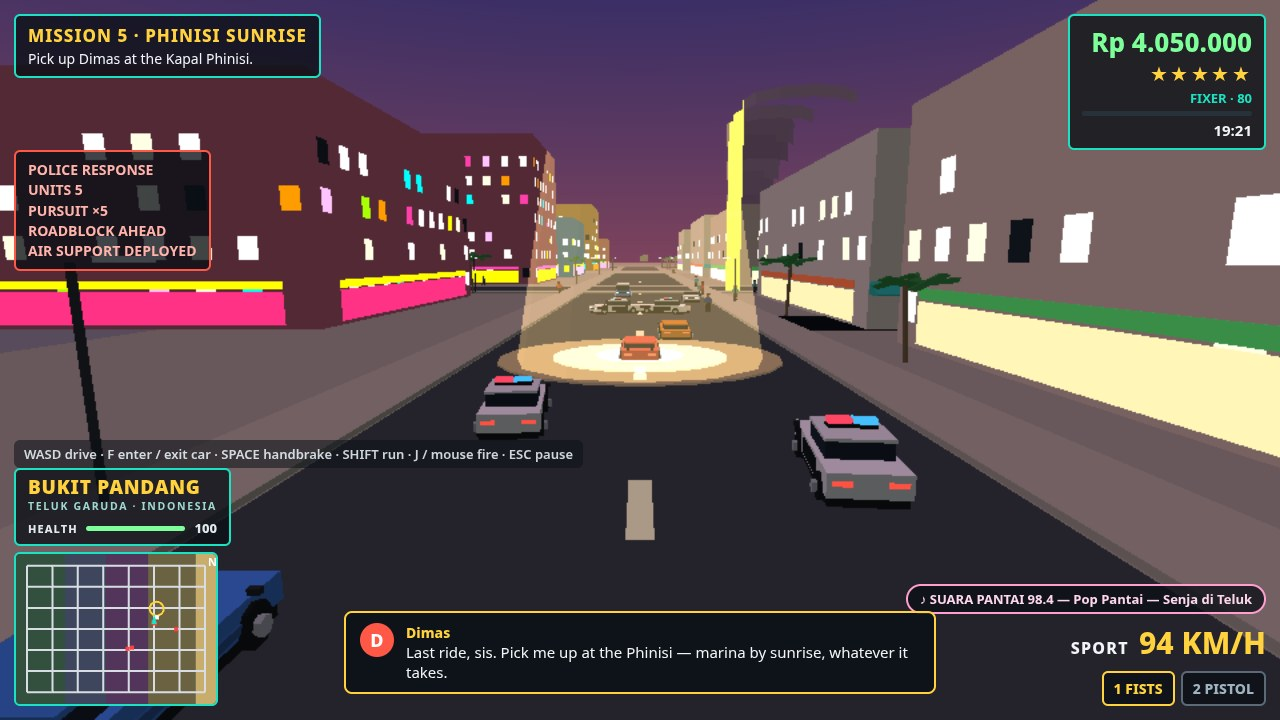
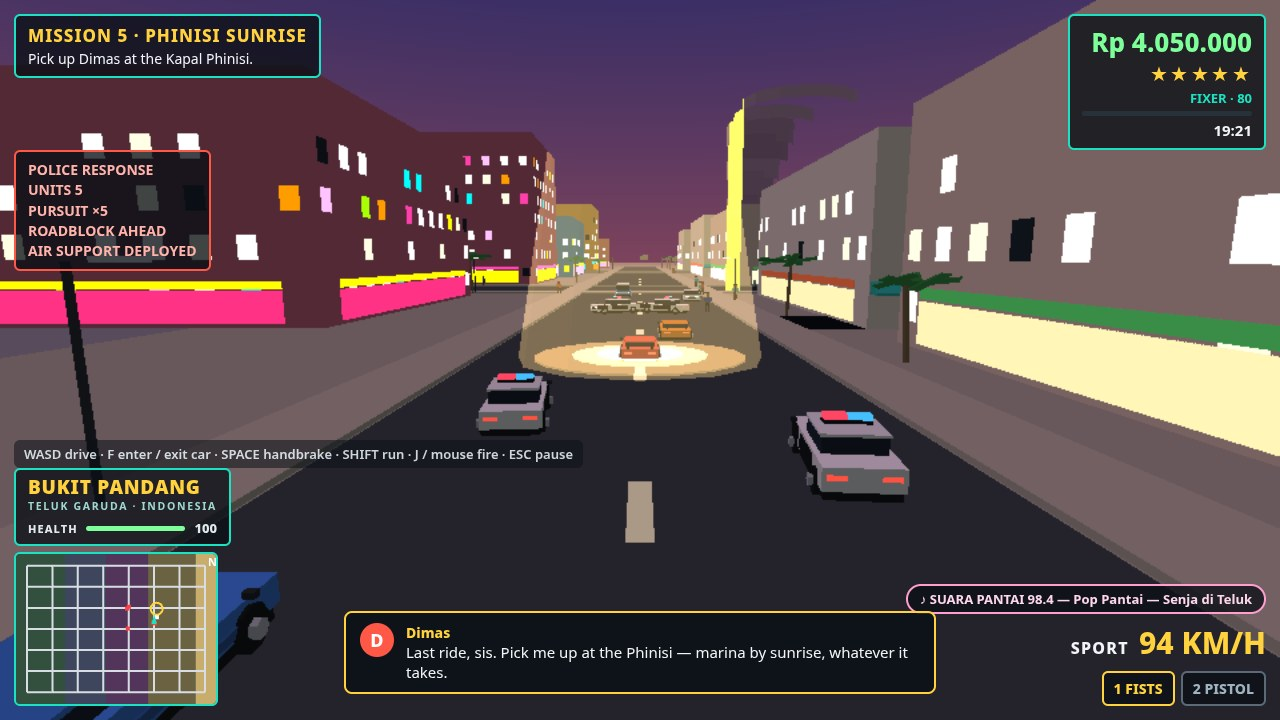
F4B iter2: on-foot market staging, menu vista backdrop, softer searchlight

diff --git a/game/src/shots3d.js b/game/src/shots3d.js
@@ -147,25 +147,30 @@
   }
 
   function stageOnfoot() {
-    Coral3D.teleport(75, -30); // Neon district, avenue x=75
+    // Park the car at the south end of the market avenue, then put Mara
+    // ON FOOT among the Pasar Malam stall rows (stalls line x=63.8/86.2,
+    // z=-64..+26) so the frame reads as a populated night market:
+    // stalls both sides, crowd clustered ahead, cars stopped in-frame.
+    Coral3D.teleport(75, 20); // car stays here, behind the camera
     return delay(400).then(function () {
       key('KeyF'); // step out of the car
       return waitFor(function () { return Coral3D.stats().mode === 'foot'; }, 6000, 'on foot');
     }).then(function () {
-      Coral3D.teleport(75, 2);
-      Coral3D.mara.heading = 0.3;
+      Coral3D.teleport(75, -26); // mid-market, stalls all around
+      Coral3D.mara.heading = 0.15; // looking north up the stall rows
       Coral3D.setTime(22.6); // Neon at night
       key('Digit2'); // pistol slot selected in the HUD
       Coral3D.setWanted(2);
       return waitFor(function () { return activeUnits().length >= 2; }, 15000, 'onfoot heat');
     }).then(function () {
       var u = activeUnits();
-      placeUnit(u[0], 86, -36, 2.6); // arriving, headlights into frame
-      placeUnit(u[1], 63, 8, -2.8);  // second unit rolling in from the south
-      placeTraffic(0, 75, -125, 75, 0, 40, -1); // northbound through the market, z ~ -40
-      placeTraffic(1, 75, -125, 75, 0, 95, 1);  // southbound toward camera, z ~ -30
-      placePeds([[70, -22], [80, -10], [68, -8], [82, -24], [72, -28], [78, -30],
-                 [66, -40], [84, -44], [69, 2], [81, -52], [67, -58], [85, 14]]);
+      placeUnit(u[0], 86, -36, 2.6);  // east kerb, headlights into frame
+      placeUnit(u[1], 64, -50, -2.8); // second unit deep in the market, west side
+      placeTraffic(0, 75, -125, 75, 0, 44, -1); // stopped northbound lane, z ~ -44
+      placeTraffic(1, 75, -125, 75, 0, 81, 1);  // stopped southbound lane, z ~ -44
+      placePeds([[70, -33], [80, -35], [67, -38], [83, -41], [72, -43], [78, -45],
+                 [69, -48], [82, -37], [74, -36], [66, -52], [84, -54], [71, -31],
+                 [68, -29], [82, -30]]); // 14 shoppers among the stalls
       Coral3D.setTime(22.6);
       return freeze();
     });
@@ -218,20 +223,22 @@
     // STATS over the live city: 3/5 missions, respect 60, money $2,050
     // -> completion = 36 + 15 + 9 = 60% by the menus3d formula.
     CoralMissions.restore({ money: 2050, respect: 60, completedCount: 3 });
-    // Lively golden-hour backdrop: Marina seafront street heading east,
-    // player car + traffic + palms + peds behind the translucent panel.
+    // Lively golden-hour backdrop: seafront overlook at the beach
+    // avenue (x=525) facing EAST over the marina — the Phinisi at
+    // anchor (668, 46) on the horizon, palm rows + boardwalk crowd
+    // around the panel, avenue traffic crossing the frame.
     window.__shotCam = { dist: 12, height: 5, lookY: 1.6 };
-    Coral3D.teleport(462, 0);
-    if (car()) car().heading = -Math.PI / 2;
+    Coral3D.teleport(525, 28);
+    if (car()) car().heading = -Math.PI / 2; // east, out to sea
     Coral3D.setTime(17.8);
     return delay(700).then(function () {
-      placeTraffic(0, 375, 0, 525, 0, 120, 1);  // eastbound ahead
-      placeTraffic(1, 375, 0, 525, 0, 20, -1);  // westbound oncoming
-      placeTraffic(2, 375, 0, 525, 0, 140, 1);  // far eastbound near the shore
-      placeTraffic(3, 375, 0, 525, 0, 60, -1);  // second westbound mid-frame
-      placeTraffic(4, 525, -125, 525, 0, 90, 1); // beach avenue traffic
-      placePeds([[478, 10.5], [495, -10.5], [448, -10.5], [533, -14], [537, 6],
-                 [470, 10.5], [520, -10.5], [536, -32]]);
+      placeTraffic(0, 375, 0, 525, 0, 120, 1);   // eastbound on the seafront street
+      placeTraffic(1, 375, 0, 525, 0, 55, -1);   // westbound oncoming, mid-frame
+      placeTraffic(2, 525, -125, 525, 0, 105, 1); // beach avenue, z ~ -20 ahead-left
+      placeTraffic(3, 525, 0, 525, 125, 62, 1);  // beach avenue southbound, z ~ 62
+      placeTraffic(4, 525, 0, 525, 125, 80, -1); // beach avenue northbound, z ~ 45
+      placePeds([[534, 18], [536, 38], [533, 8], [537, 48], [520, -6],
+                 [534, 28], [531, -20], [519, 44]]); // boardwalk + avenue strollers
       if (car()) car().speed = 11; // rolling behind the panel: ~40 KM/H
       Coral3D.setTime(17.8);
       Coral3D.state = 'pause'; // menus3d shows the STATS panel

diff --git a/game/src/police3d.js b/game/src/police3d.js
@@ -90,8 +90,8 @@ var CoralPolice = (function () {
        heights, drawn additively — bright core, soft falloff, no hard
        sand-patch edge. */
     var pb = new Baker();
-    pb.cylinder(0x8a6f3a, { x: 0, y: 0, z: 0, r: 7.4, h: 0.1, seg: 20, emis: 0.13 });
-    pb.cylinder(0xd9b96a, { x: 0, y: 0.07, z: 0, r: 4.6, h: 0.1, seg: 20, emis: 0.3 });
+    pb.cylinder(0x9a7a3a, { x: 0, y: 0, z: 0, r: 5.6, h: 0.1, seg: 20, emis: 0.08 });
+    pb.cylinder(0xd9b96a, { x: 0, y: 0.07, z: 0, r: 3.6, h: 0.1, seg: 20, emis: 0.22 });
     pb.cylinder(0xfff3cf, { x: 0, y: 0.14, z: 0, r: 2.3, h: 0.1, seg: 18, emis: 0.6 });
     poolMesh = pb.build(gl);
     var sb = new Baker();
